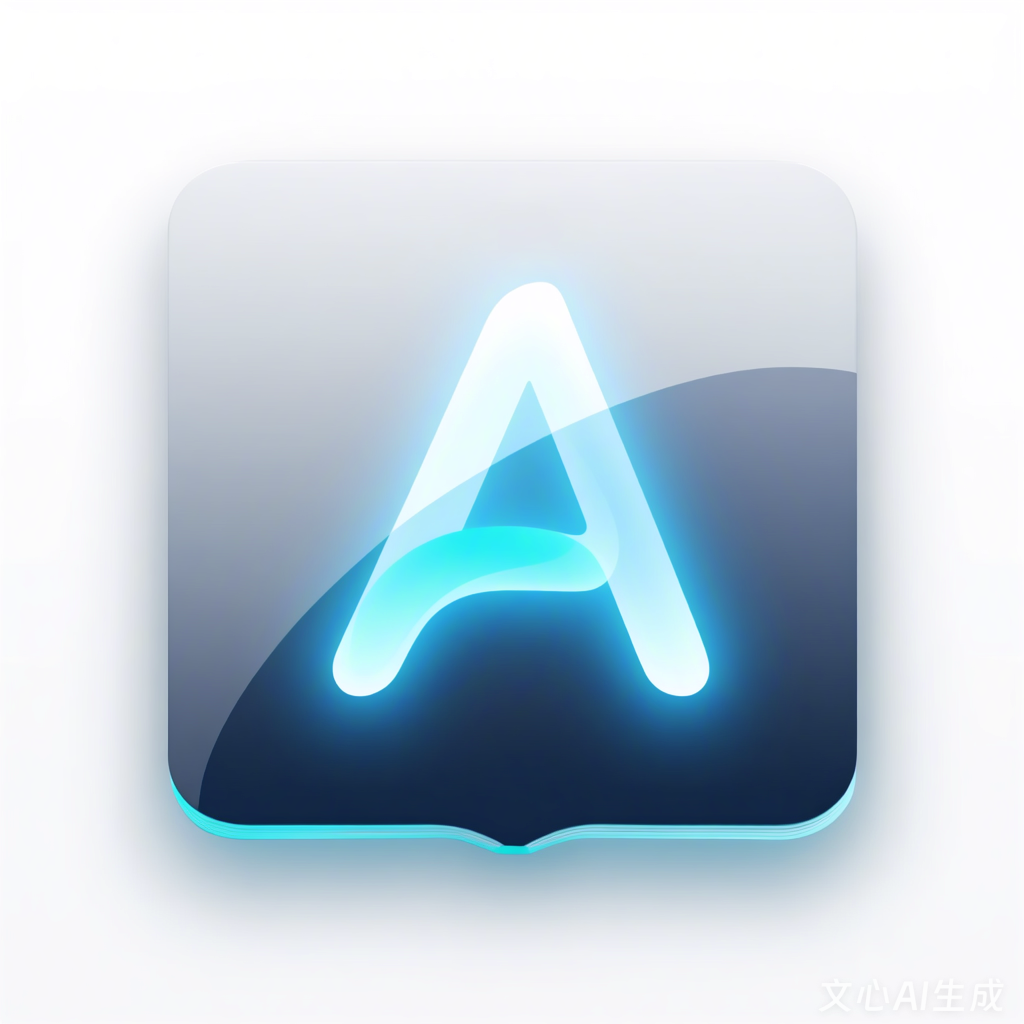
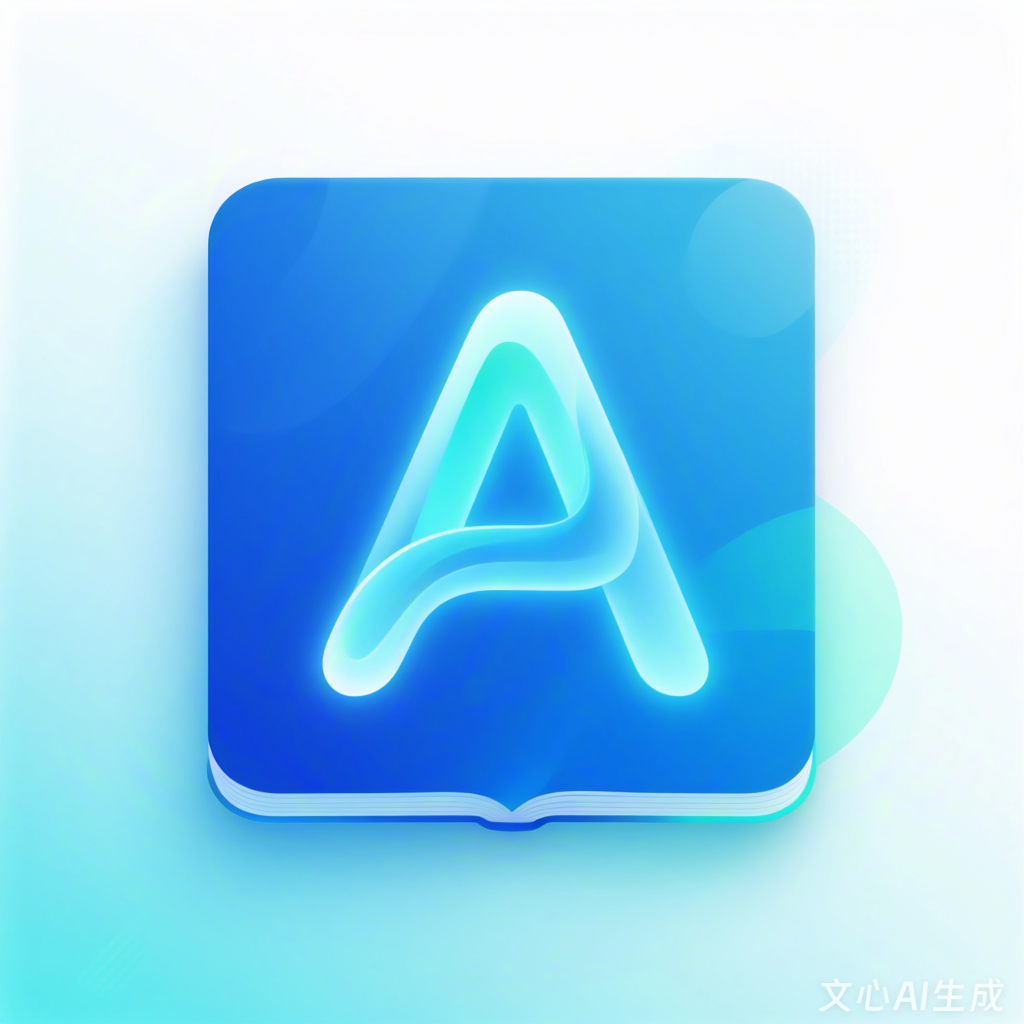
feat(tencent): 实现本地积分扣减与错误处理
- 添加 `onPointsUsed` 回调以在 AI 调用时实时扣减本地积分
- 为不同 AI 操作（对话、翻译、语音合成等）实现输入/输出积分计算逻辑
- 在流式响应中累计输出字符数并最终扣减积分
- 在服务器端积分扣减失败时，增强错误处理并回退显示当前余额
- 更新应用图标

diff --git a/lib/ai/tencentcloud/tencent_api_client.dart b/lib/ai/tencentcloud/tencent_api_client.dart
@@ -88,6 +88,7 @@ class TencentApiClient {
 
   static String? _pointsToken;
   static ValueChanged<int>? onPointsBalanceChanged;
+  static ValueChanged<int>? onPointsUsed;
 
   static void setToken(String? token) {
     if (token != null) _pointsToken = token;
@@ -114,6 +115,13 @@ class TencentApiClient {
 
   static const String _kPointsBalance = 'points_balance';
   Future<void> _syncPointsFromResponse(Map<String, dynamic> response) async {
+    if (response['PointsError'] != null ||
+        response['InputPointsError'] != null ||
+        response['OutputPointsError'] != null) {
+      debugPrint(
+          'PointsSyncError: ${response['PointsError'] ?? response['InputPointsError'] ?? response['OutputPointsError']}');
+    }
+
     final balanceRaw = response['PointsBalance'];
     if (balanceRaw == null) return;
     final next = (balanceRaw is num)
@@ -219,6 +227,66 @@ class TencentApiClient {
       );
     }
     yield StreamChunk(content: '', isComplete: true);
+  }
+
+  int _calculateInputCost(String action, Map<String, dynamic> payload) {
+    int inputChars = 0;
+    int unitCost = 1;
+
+    if (action == 'ChatCompletions') {
+      final msgs = payload['Messages'];
+      if (msgs is List) {
+        for (final m in msgs) {
+          if (m is Map) {
+            inputChars += (m['Content']?.toString() ?? '').runes.length;
+          }
+        }
+      }
+      unitCost = 1;
+    } else if (action == 'ChatTranslations') {
+      inputChars = (payload['Text']?.toString() ?? '').runes.length;
+      unitCost = 1;
+    } else if (action == 'TextToVoice') {
+      inputChars = (payload['Text']?.toString() ?? '').runes.length;
+      unitCost = 10;
+    } else if (action == 'TextTranslate') {
+      inputChars = (payload['SourceText']?.toString() ?? '').runes.length;
+      unitCost = 1;
+    }
+
+    return inputChars * unitCost;
+  }
+
+  int _calculateOutputCost(
+      String action, Map<String, dynamic> response, int outputChars) {
+    int unitCost = 1;
+    if (action == 'TextToVoice') {
+      return 0; // Output is audio, charged on input
+    }
+    // For other actions, output is charged at 1 point per char
+    return outputChars * unitCost;
+  }
+
+  int _estimateOutputCharsFromResponse(
+      String action, Map<String, dynamic> response) {
+    int outputChars = 0;
+    if (action == 'ChatCompletions' || action == 'ChatTranslations') {
+      final choices = response['Choices'];
+      if (choices is List && choices.isNotEmpty) {
+        final first = choices.first;
+        if (first is Map) {
+          final msg = first['Message'];
+          if (msg is Map) {
+            outputChars = (msg['Content']?.toString() ?? '').runes.length;
+          } else {
+            outputChars = (first['Content']?.toString() ?? '').runes.length;
+          }
+        }
+      }
+    } else if (action == 'TextTranslate') {
+      outputChars = (response['TargetText']?.toString() ?? '').runes.length;
+    }
+    return outputChars;
   }
 
   Future<Map<String, dynamic>> postJson({
@@ -392,6 +460,20 @@ class TencentApiClient {
           throw TencentCloudException(code: code, message: msg, requestId: rid);
         }
 
+        // Calculate and deduct points locally for non-SCF requests
+        try {
+          final typedResponse = response.cast<String, dynamic>();
+          final inputCost = _calculateInputCost(action, payload);
+          final outputChars =
+              _estimateOutputCharsFromResponse(action, typedResponse);
+          final outputCost =
+              _calculateOutputCost(action, typedResponse, outputChars);
+          final totalCost = inputCost + outputCost;
+          if (totalCost > 0) {
+            onPointsUsed?.call(totalCost);
+          }
+        } catch (_) {}
+
         return response.cast<String, dynamic>();
       } catch (e, st) {
         if (e is TencentCloudException) {
@@ -538,8 +620,7 @@ class TencentApiClient {
                 final json = jsonDecode(jsonStr);
                 if (json is! Map) continue;
                 if (json['PointsBalance'] != null) {
-                  await _syncPointsFromResponse(
-                      json.cast<String, dynamic>());
+                  await _syncPointsFromResponse(json.cast<String, dynamic>());
                 }
 
                 final choices = json['Choices'];
@@ -645,6 +726,7 @@ class TencentApiClient {
       // 持续读取流式响应，直到连接关闭或收到[DONE]
       final transformer = utf8.decoder;
       String buffer = '';
+      int accumulatedOutputChars = 0;
 
       await for (final chunk
           in streamedResponse.stream.transform(transformer)) {
@@ -663,6 +745,14 @@ class TencentApiClient {
 
           if (jsonStr == '[DONE]') {
             yield StreamChunk(content: '', isComplete: true);
+            // Deduct accumulated output points
+            try {
+              final outputCost =
+                  _calculateOutputCost(action, {}, accumulatedOutputChars);
+              if (outputCost > 0) {
+                onPointsUsed?.call(outputCost);
+              }
+            } catch (_) {}
             return;
           }
 
@@ -695,8 +785,10 @@ class TencentApiClient {
 
             final content = delta['Content'];
             if (content != null && content.toString().isNotEmpty) {
+              final c = content.toString();
+              accumulatedOutputChars += c.runes.length;
               yield StreamChunk(
-                content: content.toString(),
+                content: c,
                 isReasoning: false,
                 isComplete: false,
               );
@@ -707,6 +799,14 @@ class TencentApiClient {
                 finishReason.toString().isNotEmpty &&
                 finishReason.toString() != 'null') {
               yield StreamChunk(content: '', isComplete: true);
+              // Deduct accumulated output points
+              try {
+                final outputCost =
+                    _calculateOutputCost(action, {}, accumulatedOutputChars);
+                if (outputCost > 0) {
+                  onPointsUsed?.call(outputCost);
+                }
+              } catch (_) {}
               return;
             }
           } catch (_) {
@@ -716,6 +816,14 @@ class TencentApiClient {
       }
 
       yield StreamChunk(content: '', isComplete: true);
+      // Deduct accumulated output points
+      try {
+        final outputCost = _calculateOutputCost(
+            action, <String, dynamic>{}, accumulatedOutputChars);
+        if (outputCost > 0) {
+          onPointsUsed?.call(outputCost);
+        }
+      } catch (_) {}
     } finally {
       release?.call();
     }

diff --git a/app.js b/app.js
@@ -762,7 +762,12 @@ async function handleApiProxy(req, res, body) {
             });
             json.PointsDeducted = totalNeed;
             json.PointsBalance = next;
-          } catch (_) {
+          } catch (e) {
+            json.PointsError = String(e && e.message ? e.message : e);
+            try {
+               const current = await getPointsBalance({ bucket, region: regionStr, deviceId, credentials: null });
+               json.PointsBalance = current;
+            } catch (_) {}
           }
         }
         sendJson(res, 200, json);

diff --git a/lib/presentation/providers/ai_model_provider.dart b/lib/presentation/providers/ai_model_provider.dart
@@ -93,6 +93,10 @@ class AiModelProvider extends ChangeNotifier {
       if (_pointsBalance == v) return;
       unawaited(setPointsBalance(v));
     };
+    TencentApiClient.onPointsUsed = (usage) {
+      if (usage <= 0) return;
+      unawaited(addPoints(-usage));
+    };
     _load();
   }
 
